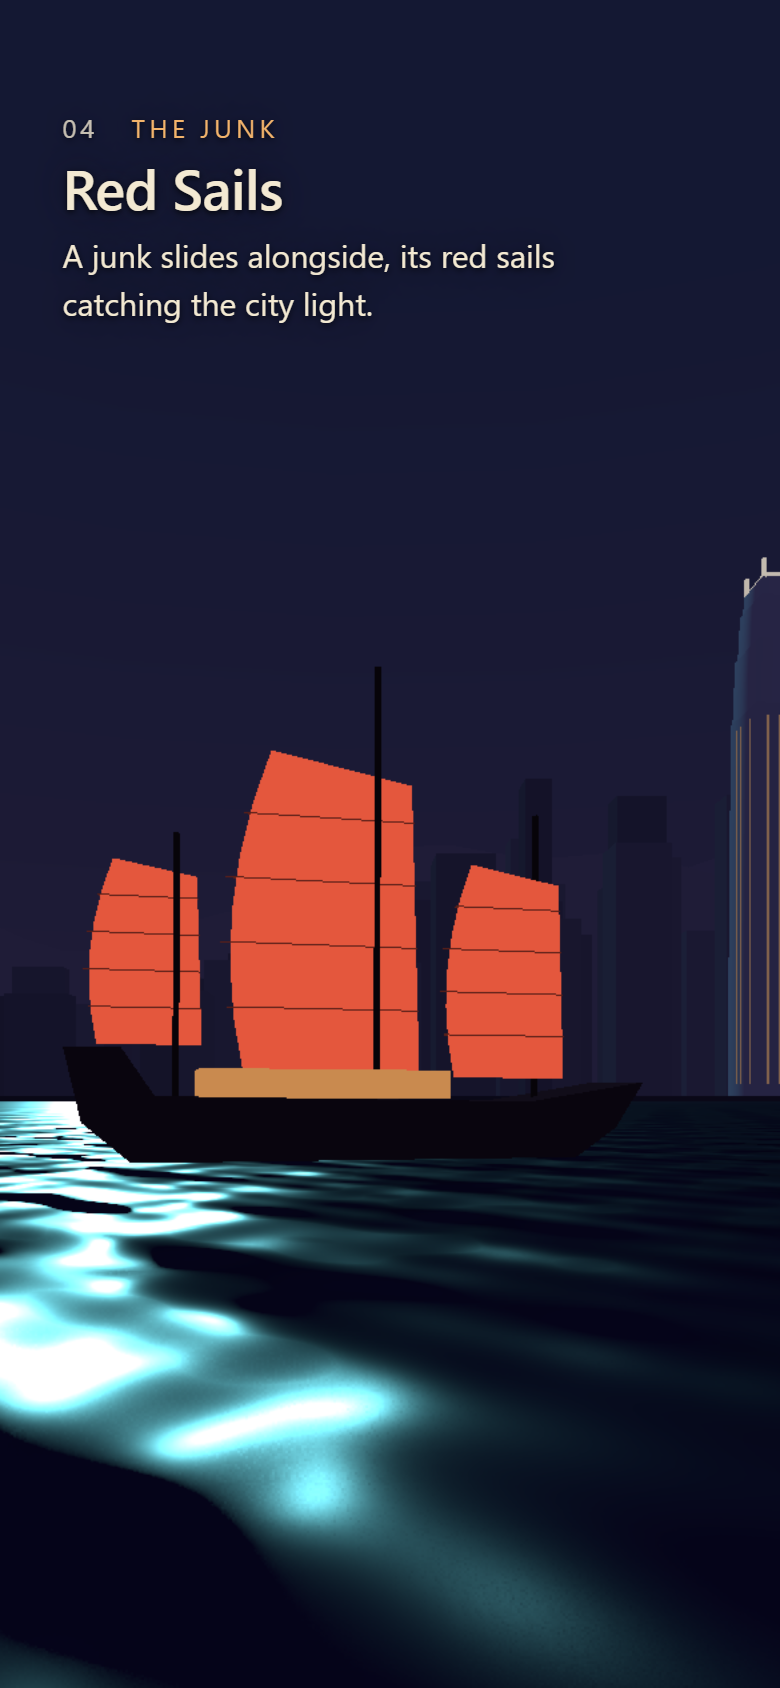
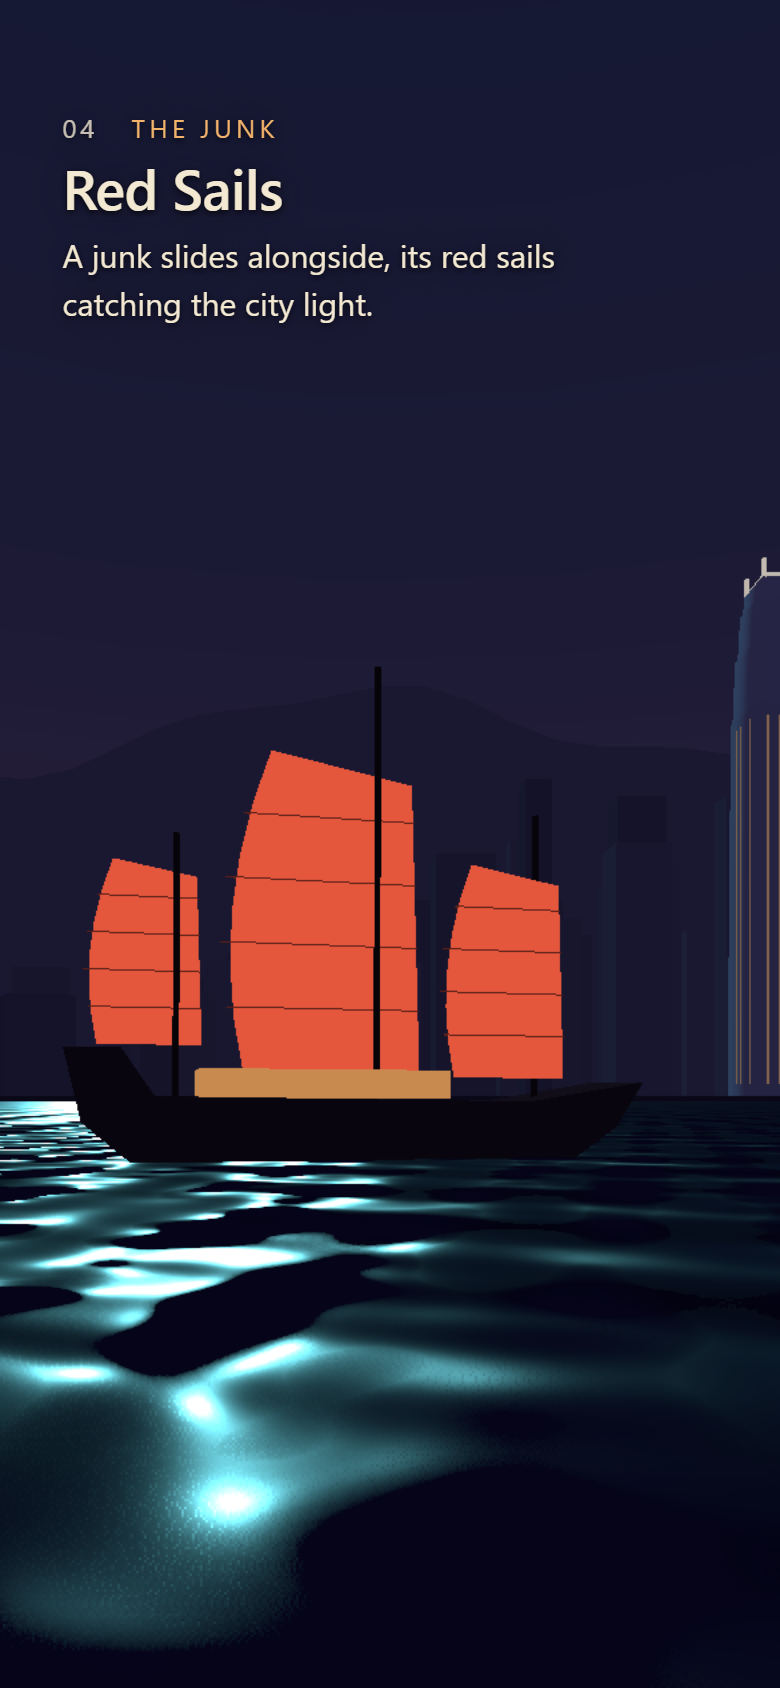
Refresh grey-box review screenshots and notes for backdrop and water

Changed region(s): [[0.0, 0.6469, 0.8615, 1.0], [0.7077, 0.7085, 0.9231, 0.7701]]

diff --git a/docs/greybox-review/REVIEW.md b/docs/greybox-review/REVIEW.md
@@ -50,6 +50,11 @@ one with its storyboard PNG in `docs/storyboards/`.
     The land now stops 5 m past the tower.
 11. **Brief wording.** The brief swaps the fore and mizzen sail labels in 7.4.
    The geometry follows the PNG.
+12. **Backdrop behind Central.** The near mountain ridge is raised so it
+    stays above the skyline in 05 and runs across the bottom of 06, with
+    Victoria Peak (~560 m) left of IFC. The sky's dusk glow now reaches about
+    17° up, so the ridges read as dark silhouettes against it, as in the
+    storyboards. The ridge also shows behind the skyline in 01–04.
 
 Everything else is within ±3% of its section 7 target.
 
@@ -88,9 +93,10 @@ sits at the centre of the frame.
 
 ## Known grey-box artifacts
 
-- From mid-harbour (05), the placeholder water shows a faint repeating
-  pattern. The final water will replace it. Fixing it now would need a custom
-  shader, which is out of scope.
+- From mid-harbour (05), the placeholder water reads as choppy rather than
+  calm. The repeating brick grid is gone: the ripple texture now repeats every
+  120 m at an angle to the cameras. City-light reflections come with the final
+  water.
 - The burst markers in 06 are flat rings at the brief's sizes, which are large.
   They are placement markers, not fireworks.
 
